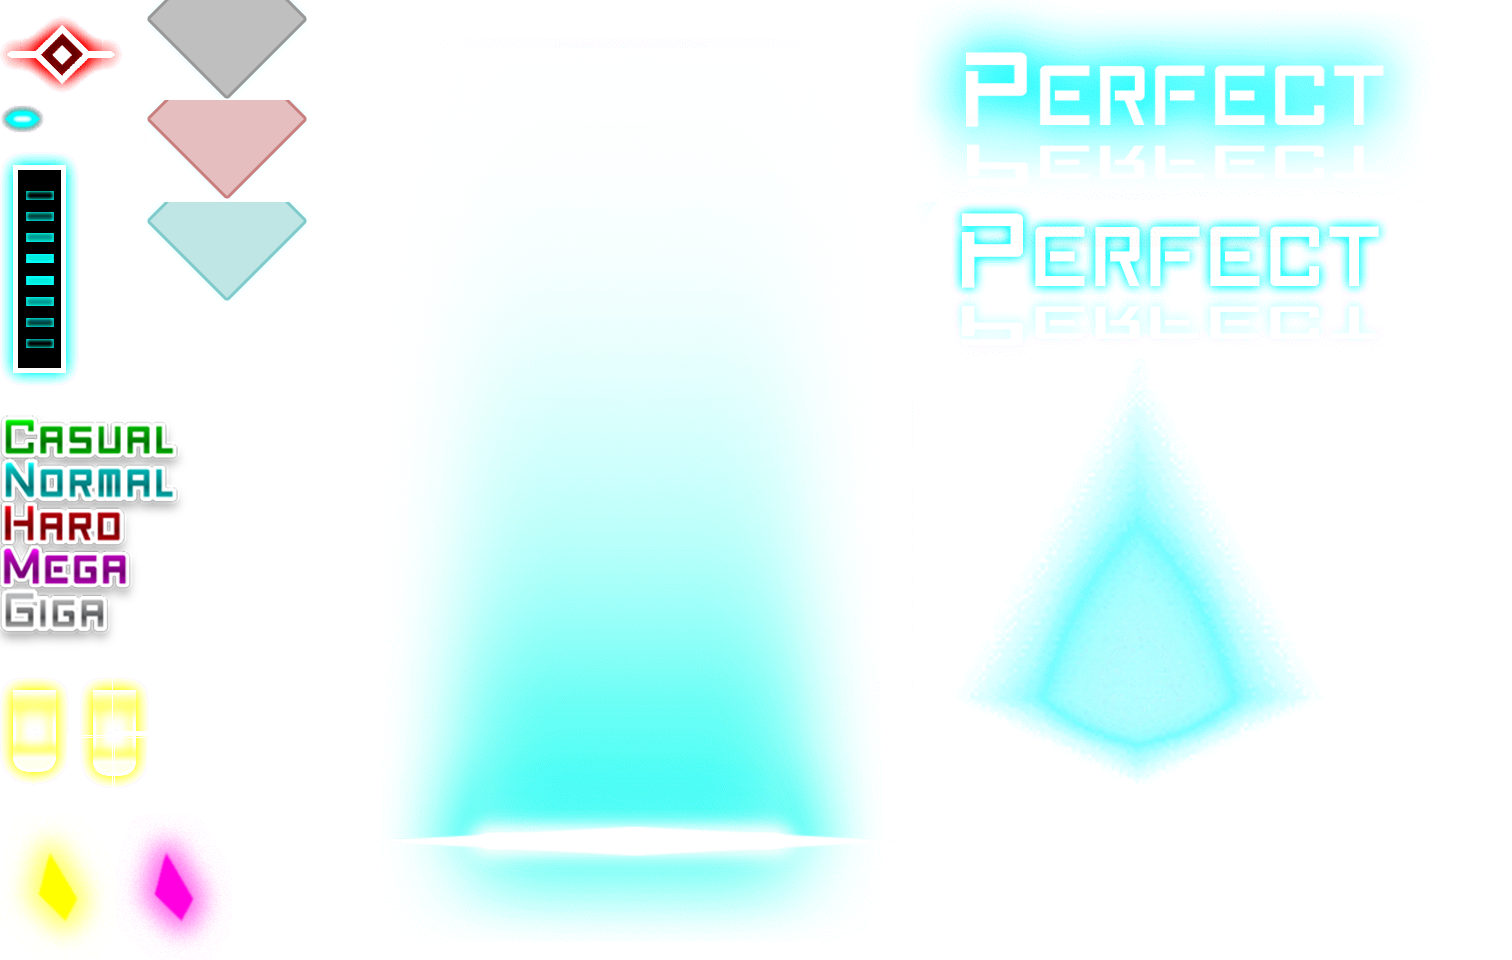
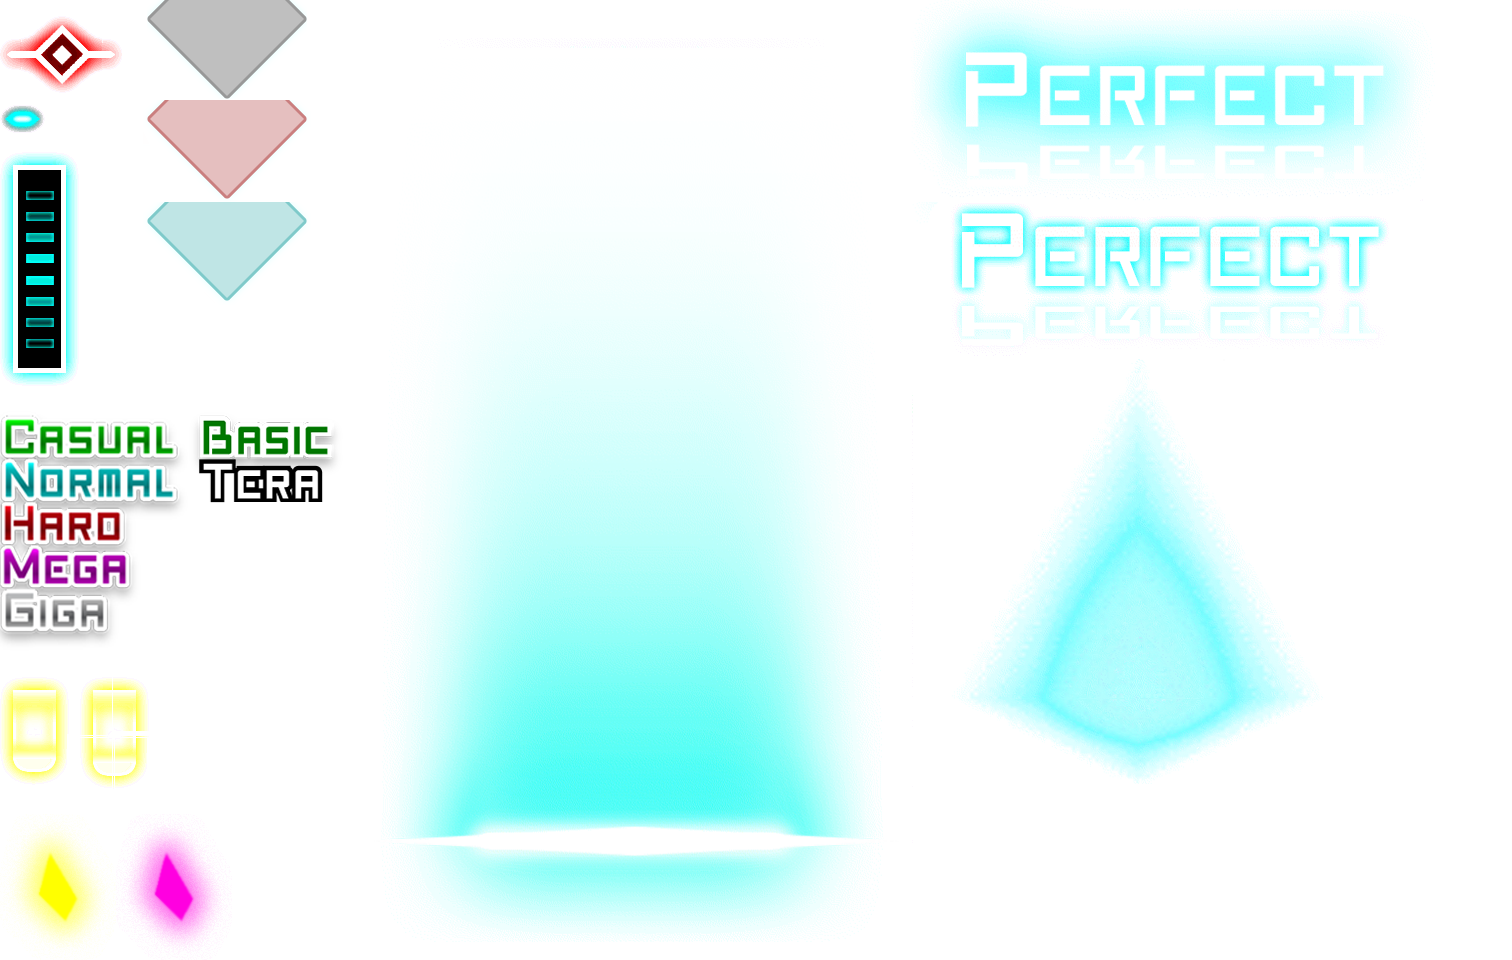
stuff

Changed region(s): [[0.6217, 0.0312, 0.9015, 0.125], [0.1243, 0.4375, 0.2176, 0.5312]]

diff --git a/app/src/Script/loadingScene9495.js b/app/src/Script/loadingScene9495.js
@@ -1,7 +1,7 @@
 var totalState = 0;
 var onloadRun = false;
-//var bdReader = [];	//TLC .dy removed variables because not needed anymore
-//var bdReaderOnloaded = 0;
+var bdReader = [];
+var bdReaderOnloaded = 0;
 var notes = [];
 var loadOffset = 0;
 var addOffset = 0;
@@ -12,37 +12,14 @@ var saveType;
 var savePos = 0;
 var saveWidth = 0;
 var saveInt;
-var dy;
-var remix;
 var hardshipMap = {"C":["CASUAL", "#8F8"],
 					"N":["NORMAL", "#88F"],
 					"H":["HARD", "#F44"],
 					"M":["MEGA", "#F4F"],
-					"G":["GIGA", "#888"]
-					///,
-///					"U":["CUSTOM", "#FFF"]
-}
-
-//TLC .dy - added function to separate contents in .dy file
-function dataURLtoBlob(dataurl) {
-    var arr = dataurl.split(','), mime = arr[0].match(/:(.*?);/)[1],
-        bstr = atob(arr[1]), n = bstr.length, u8arr = new Uint8Array(n);
-    while (n--) {
-        u8arr[n] = bstr.charCodeAt(n);
-    }
-    return new Blob([u8arr], { type: mime });
-}
-
-//TLC .dy - Added Function to load img from the dy file
-function extraImgLoad(img, callback) {
-	var timer = setInterval(function() {
-		if (img && img.complete) {
-			clearInterval(timer);
-			callback(img);
-		}
-	}, 50);
-}
-
+					"G":["GIGA", "#888"],
+					"T":["TERA", "#333"],
+					"B":["BASIC", "#8F8"],
+					"U":["CUSTOM", "#FFF"]}
 
 function ana(s) {
 	var t = s.split(/,|\//g);
@@ -63,48 +40,37 @@ function ana(s) {
 }
 
 function loadingScene() {
-	//TLC .dy - removed function, shifted below
-	// for (var i = 0; i < 4; ++i) {
-	// 	bdReader[i] = new FileReader();
-	// }
-	// audioLoad(musicUrl, function(audio){
-	// 	musicCtrl = audio;
-	// 	musicCtrl.goplay = function() {
-	// 		if (musicCtrl.ended) {
-	// 			resetCS();
-	// 			noteDownHit = [];
-	// 			noteLeftHit = [];
-	// 			noteRightHit = [];
-	// 		}
-	// 		if (showCS) {
-	// 			musicPlayButton.focus();
-	// 			musicPlayButton.click();
-	// 			return;
-	// 		}
-	// 		if (editMode) {
-	// 			clearHit();
-	// 		}
-	// 		if (musicCtrl) { 
-	// 			musicPlayButton.focus();
-	// 			musicPlayButton.click();
-	// 		}
-	// 	}
-	//     //$('#music').attr("src", audioUrl);
-	// 	loaded++;
-	// });
+	for (var i = 0; i < 4; ++i) {
+		bdReader[i] = new FileReader();
+	}
+	audioLoad(musicUrl, function(audio){
+		musicCtrl = audio;
+		musicCtrl.goplay = function() {
+			if (musicCtrl.ended) {
+				resetCS();
+				noteDownHit = [];
+				noteLeftHit = [];
+				noteRightHit = [];
+			}
+			if (showCS) {
+				musicPlayButton.focus();
+				musicPlayButton.click();
+				return;
+			}
+			if (editMode) {
+				clearHit();
+			}
+			if (musicCtrl) { 
+				musicPlayButton.focus();
+				musicPlayButton.click();
+			}
+		}
+	    //$('#music').attr("src", audioUrl);
+		loaded++;
+	});
 }
 
 loadingScene.prototype = {
-	init:function(initLoadType) {
-		onloadRun = false;
-		this.loadType = initLoadType;
-		this.status = 0;
-		this.bdReader = [];
-		for (var i = 0; i < 4; ++i) {
-			this.bdReader[i] = new FileReader();
-		}
-		this.status = 0;
-	},
 	up:function() {
 	},
 	down:function() {
@@ -116,70 +82,28 @@ loadingScene.prototype = {
 		ctx.fillStyle = "#0FF";
 		//ctx.fillText(bdReader.result, windowHeight * 0.5, windowWidth * 0.5);
 		totalState = 0;
-		for (var i = 0; i < (this.loadType != "X3T" ? 1 : 4); ++i) {
-			totalState += this.bdReader[i].readyState;
-			if (this.bdReader[i] && this.bdReader[i].readyState == 0) {
-				this.bdReader[i].readAsText(mapFileCtrl[i], "utf-8");
+		for (var i = 0; i < (xmlJson ? 1 : 4); ++i) {
+			totalState += bdReader[i].readyState;
+			if (bdReader[i] && bdReader[i].readyState == 0) {
+				bdReader[i].readAsText(mapFileCtrl[i], "utf-8");
 			}
 		}
 		if (! onloadRun){
-			if (this.loadType != "X3T" && totalState == 2) {
+			if (xmlJson && totalState == 2) {
 				switch (mapFileCtrl[0].name.substr(-4, 4).toUpperCase()) {
 					case ".XML":
 						var xotree = new XML.ObjTree();
 					    var dumper = new JKL.Dumper();
-					    var xmlText = this.bdReader[0].result;
+					    var xmlText = bdReader[0].result;
 						var tree = xotree.parseXML(xmlText);
 						CMap = eval('(' + dumper.dump(tree) + ')').CMap;
 						break;
 					
 					case "JSON":
-						CMap = eval('(' + this.bdReader[0].result + ')').CMap;
+						CMap = eval('(' + bdReader[0].result + ')').CMap;
 						break;
-					default:
-						dy = eval('(' + this.bdReader[0].result + ')');
-						CMap = dy.CMap;
-						remix = dy.remix;
-						if (remix.bg) {
-							bg = true;
-							bgSrc.src = URL.createObjectURL(dataURLtoBlob(remix.bg));
-							extraImgLoad(bgSrc, function() {
-								bgContext.drawImage(bgSrc, 0, 0, bgSrc.width, bgSrc.height, 0, 0, windowWidth, windowHeight);
-							});
-						}
-						musicUrl = URL.createObjectURL(dataURLtoBlob(remix.music));
-						break;
+						
 				}
-				//TLC .dy Shifted audioLoad function here
-				audioLoad(musicUrl, function(audio){
-					musicCtrl = audio;
-					musicCtrl.goplay = function() {
-						if (musicCtrl.ended) {
-							resetCS();
-							noteDownHit = [];
-							noteLeftHit = [];
-							noteRightHit = [];
-						}
-						if (showCS) {
-							musicPlayButton.focus();
-							musicPlayButton.click();
-							return;
-						}
-						if (editMode) {
-							clearHit();
-						}
-						if (musicCtrl) { 
-							musicPlayButton.focus();
-							musicPlayButton.click();
-						}
-					}
-					musicCtrl.id = "music";
-					musicCtrl.addEventListener('error', function(mediaError) {
-						debugSettings.log.push({name: mediaError.message});
-					});
-					loaded++;
-				});
-
 				hardship = hardshipMap[CMap.m_mapID.substr(-1, 1)][0];
 				hardshipColor = hardshipMap[CMap.m_mapID.substr(-1, 1)][1];
 				
@@ -283,7 +207,7 @@ loadingScene.prototype = {
 						CMap = {};
 						var xotree = new XML.ObjTree();
 					    var dumper = new JKL.Dumper();
-					    var xmlText = this.bdReader[index].result;
+					    var xmlText = bdReader[index].result;
 						var tree = xotree.parseXML(xmlText);
 						var Info = eval('(' + dumper.dump(tree) + ')').DnxSong;
 						CMap.m_path = Info.Name;
@@ -300,7 +224,7 @@ loadingScene.prototype = {
 							saveDiv = 1;
 							savePos = 0;
 							saveWidth = 0;
-							txt = this.bdReader[index].result;
+							txt = bdReader[index].result;
 							var arr = txt.replace(/\/\/.*/g, "").replace(/(\s*;\s*|\s+)/g, "`").split(/`/g);
 		//					console.log(arr);
 		//					step0 = txt.replace(/\/\/.*/g, "");

diff --git a/app/src/Script/playView9495.js b/app/src/Script/playView9495.js
@@ -29,7 +29,7 @@ var basicMenu = [
 	["[1]  NORMAL note", 46, 38, rgba(0, 255, 255, 0.8)],
 	["[2]  CHAIN note", 86, 38, rgba(255, 128, 128, 0.8)],
 	["[3]  HOLD note", 126, 38, rgba(255, 255, 0, 0.8)],
-	["[4]  EDITING mode", 166, 38, rgba(255, 255, 255, 0.8)],
+	["[4]  Edit mode", 166, 38, rgba(255, 255, 255, 0.8)],
 	["[_]  Pause/Play", 206, 38],
 	["     Mark here", 246, 38, rgba(128, 128, 255, 0.8)],
 	["[M]  Start from mark", 286, 38, rgba(128, 128, 255, 0.8)],
@@ -239,6 +239,10 @@ playView.prototype = {
 				hardshipCut = 4;
 				break;
 			}
+			case "CUSTOM": {
+				hardshipCut = 5;
+				break;
+			}
 		}
 		ctx.drawImage(hardshipCanvas, 0, 43*hardshipCut, 190, 43, windowWidth*0.022, windowHeight - ud + 77, 190, 43);
 		ctx.globalAlpha = 1;
@@ -255,21 +259,21 @@ playView.prototype = {
 		ctx.fillText(offset + " Bar offset (O- P+)", windowWidth, windowHeight - 30);
 		ctx.fillText(musicCtrl.currentTime.toFixed(3) + " s (MUSIC)", windowWidth, windowHeight - 55);
 		
-		ctx.fillText((hiSpeed/1000).toFixed(1) + " x Hispeed (Q- E+)", windowWidth*0.82, windowHeight - 30);
+		ctx.fillText((hiSpeed/1000).toFixed(1) + " x Hispeed (Q- E+)", windowWidth*0.87, windowHeight - 30);
 		if (audioRate < 0.5 || audioRate > 4.0) {
 			ctx.fillStyle = "#F88";
 		}
-		ctx.fillText(audioRate.toFixed(1) + " x Rate (S- W+)", windowWidth*0.82, windowHeight - 55);
+		ctx.fillText(audioRate.toFixed(1) + " x Rate (S- W+)", windowWidth*0.87, windowHeight - 55);
 		
 		if (keysDown[72]) {
 			ctx.textAlign = "right";
 			ctx.fillStyle = "rgba(128, 128, 128, 0.8)";
-			ctx.fillText("(C- V+) ±division", windowWidth*0.67, windowHeight - 55);
-			ctx.fillText("(A- D+) ±[0.01]1s", windowWidth*0.67, windowHeight - 30);
-			ctx.fillText("(←↓→)  barlines", windowWidth*0.55, windowHeight - 30);
-			ctx.fillText("(F11) fullscreen", windowWidth*0.55, windowHeight - 55);
-			ctx.fillText("(Z)  lock/unlock bar", windowWidth*0.43, windowHeight - 55);
-			ctx.fillText("(X) lock/unlock X-axis", windowWidth*0.43, windowHeight - 30);
+			ctx.fillText("[Shift](C- V+) ±divition", windowWidth*0.74, windowHeight - 55);
+			ctx.fillText("[Shift](A- D+) ±[0.01]1s", windowWidth*0.74, windowHeight - 30);
+			ctx.fillText("(←↓→) barlines", windowWidth*0.58, windowHeight - 30);
+			ctx.fillText("(F) fullscreen", windowWidth*0.58, windowHeight - 55);
+			ctx.fillText("(Z) unlock time", windowWidth*0.44, windowHeight - 55);
+			ctx.fillText("(X) unlock position", windowWidth*0.44, windowHeight - 30);
 		}
 //		ctx.fillText(offset + " s offset (O- P+)", windowWidth, windowHeight - 25);
 //		ctx.fillText(musicCtrl.currentTime.toFixed(3) + " s (MUSIC)", windowWidth, windowHeight - 50);

diff --git a/app/src/index.js b/app/src/index.js
@@ -60,39 +60,11 @@ const template = [
      accelerator: process.platform === 'darwin' ? 'Cmd+Q' : 'Alt+F4'}
       ]
    },
-   
-//   {
-//      label: 'Edit',
-//      submenu: [
-//         {
-//            role: 'undo'
-//         },
-//         {
-//            role: 'redo'
-//         },
-//         {
-//            type: 'separator'
-//         },
-//         {
-//            role: 'cut'
-//         },
-//         {
-//            role: 'copy'
-//         },
-//         {
-//            role: 'paste'
-//         }
-//      ]
-//   },
-   
    {
       label: 'View',
       submenu: [
          {
             role: 'reload'
-         },
-         {
-            role: 'forceReload'
          },
          {
             role: 'toggledevtools'

diff --git a/app/src/Script/settingsForNewMapScene9495.js b/app/src/Script/settingsForNewMapScene9495.js
@@ -148,13 +148,13 @@ settingsForNewMapScene.prototype = {
 		err = "";
 		if (window) {
 			if (! musicName || musicName.value == "") {
-				err += "Music name shouldn't be empty; "
+				err += "Music name cannot be empty; "
 			}
 			if (! bpmName || isNaN(Number(bpmName.value)) || Number(bpmName.value) <= 0) {
-				err += "Illigal BPM; "
+				err += "Invalid BPM; "
 			}
 			if (! offsetName || isNaN(Number(offsetName.value))) {
-				err += "Illigal OFFSET; "
+				err += "Invalid Offset; "
 			}
 		}
 		

diff --git a/app/src/index.html b/app/src/index.html
@@ -26,6 +26,7 @@
 	    <option value="HARD">HARD</option>
 	    <option value="MEGA">MEGA</option>
 	    <option value="GIGA">GIGA</option>
+		<option value="CUSTOM">CUSTOM</option>
 	</select>
 	<select id="left" style="position: absolute; width:600px; height:100px; font-size:50px;color:rgb(255,255,255);left:200px; top:700px; display: none; background-color: rgb(25,25,25);">
 		<option value="MIXER">MIXER</option>
